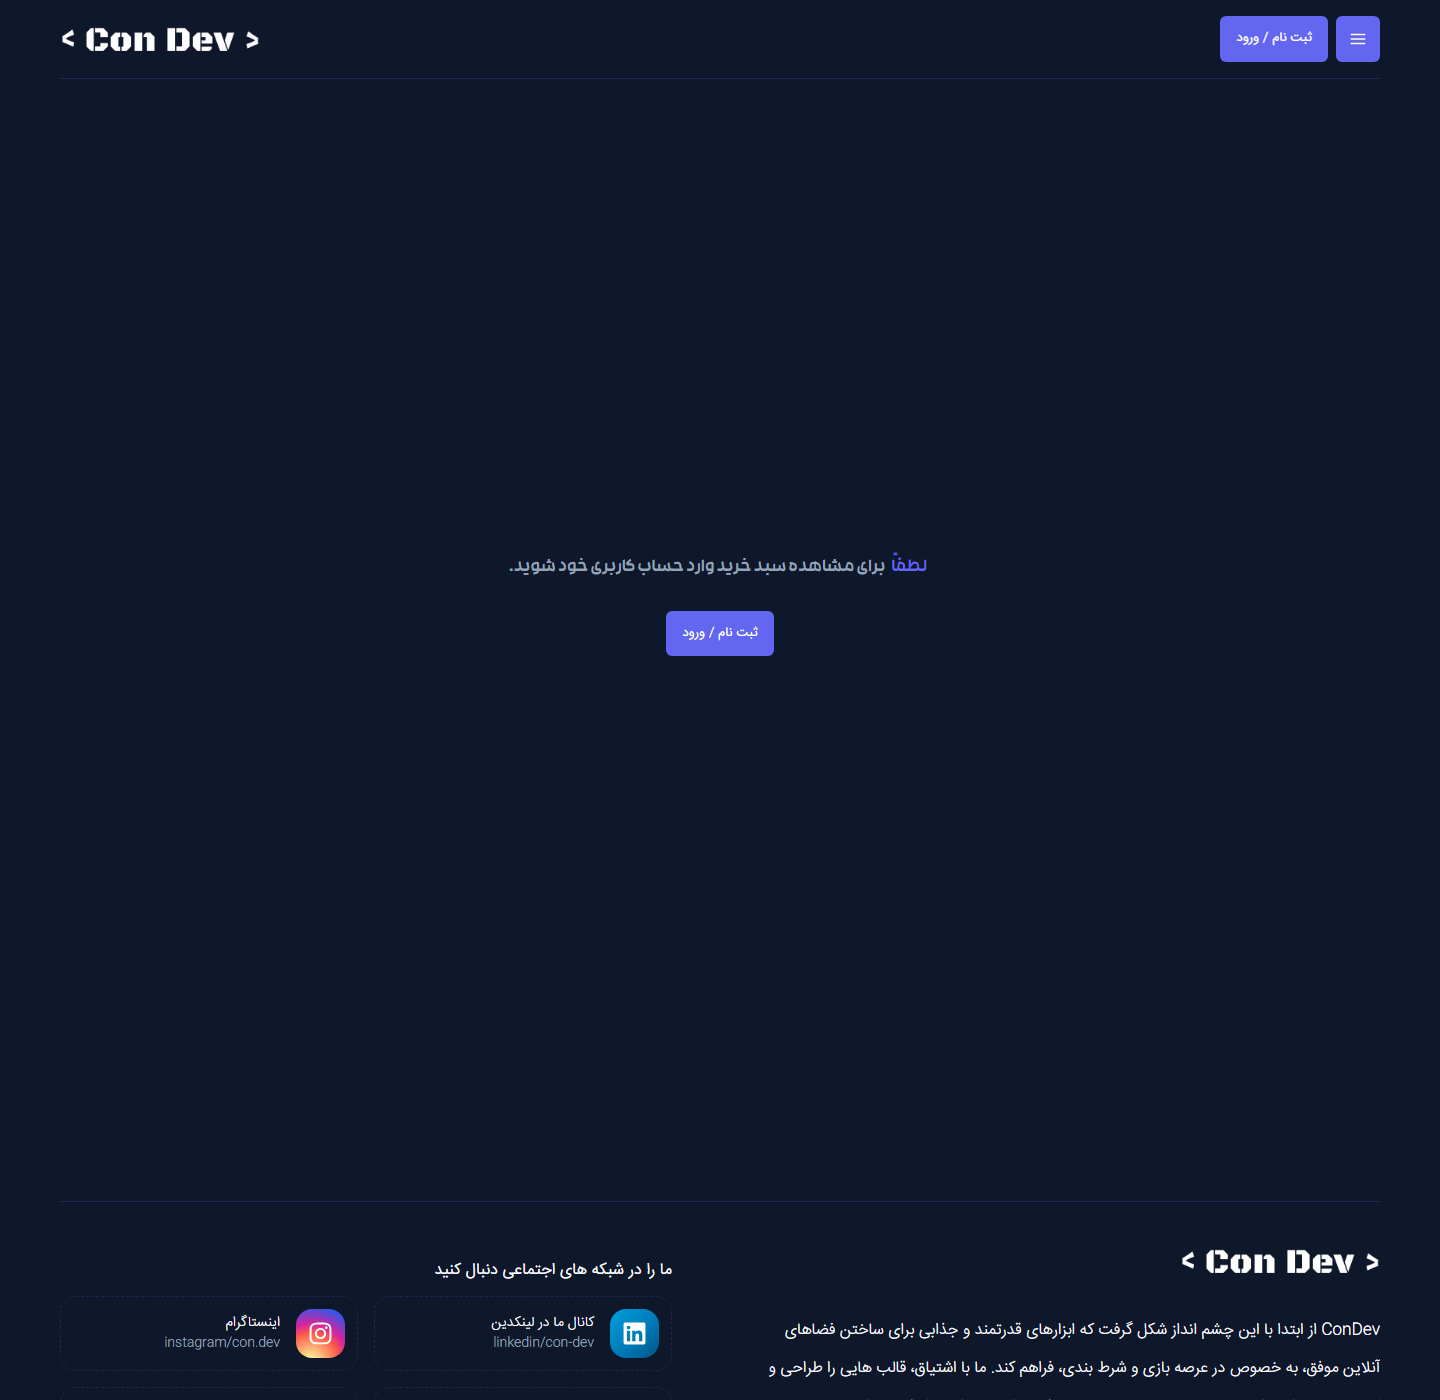
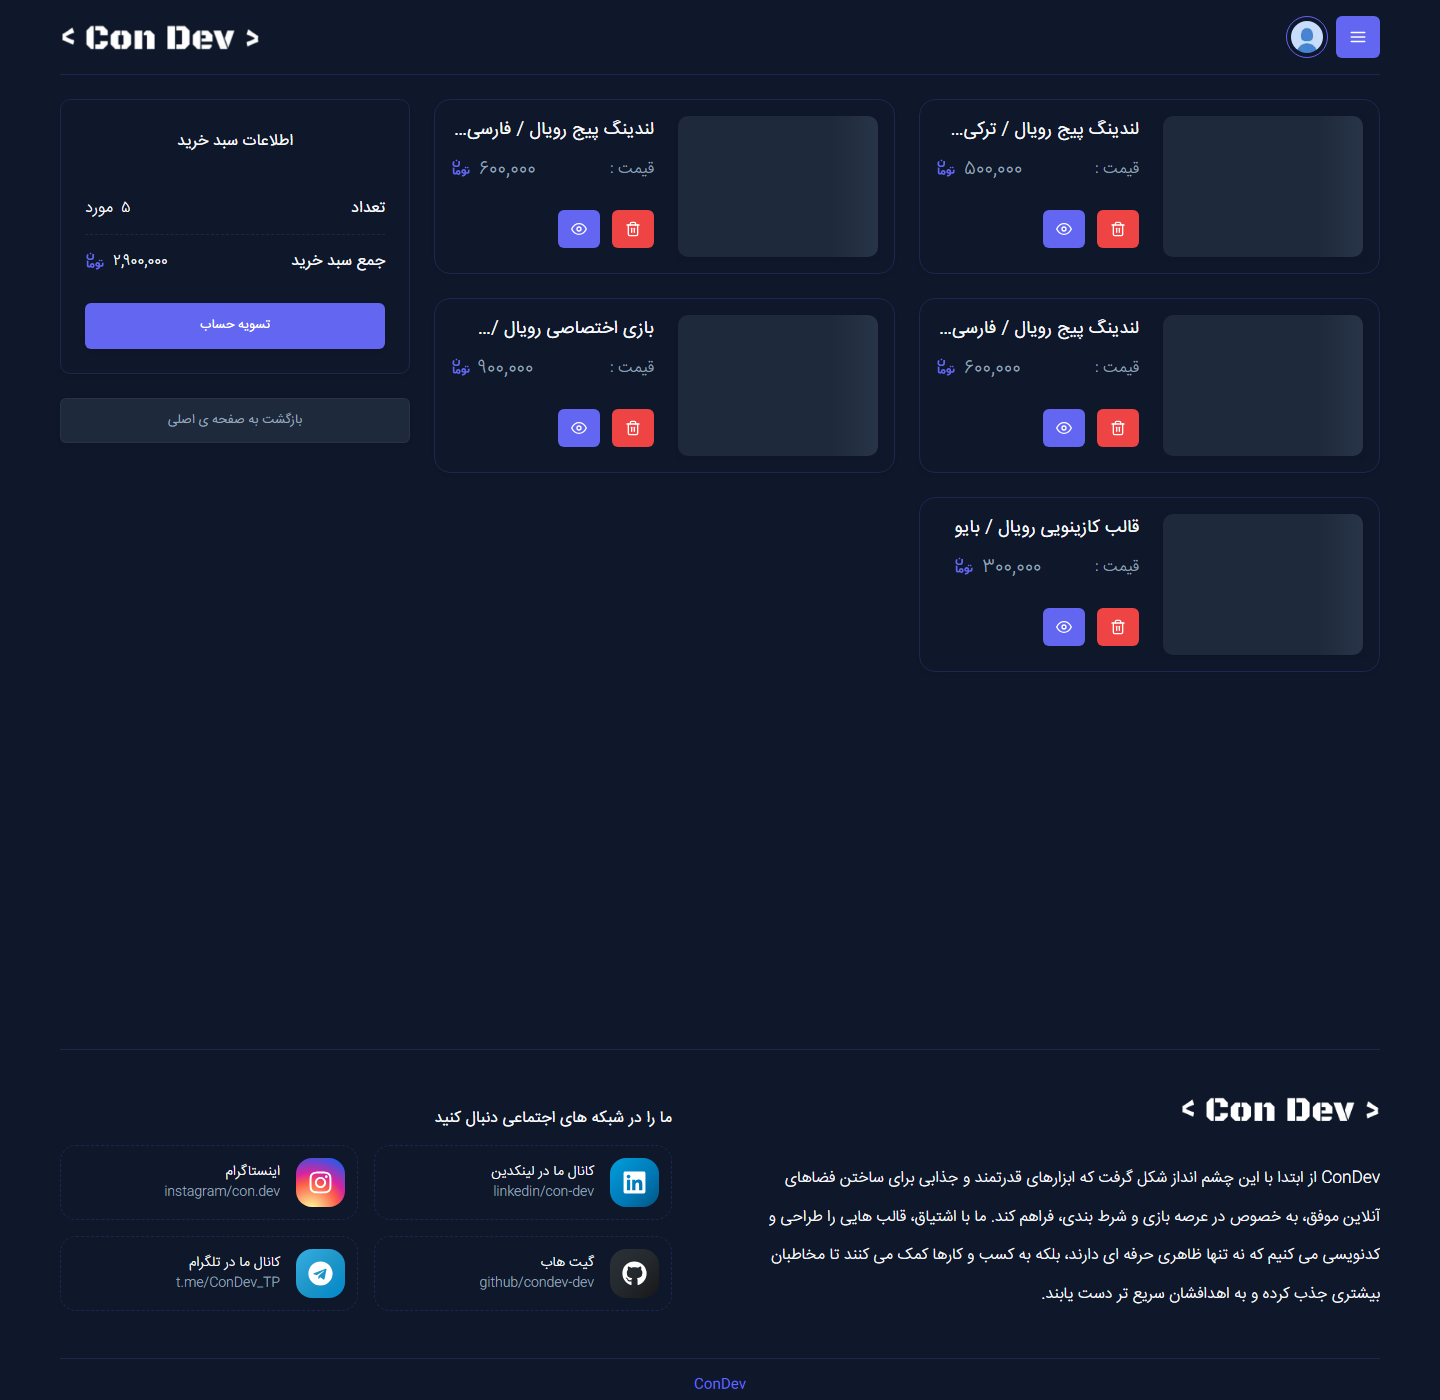
docs(readme): update preview with logged-in user profile, purchases and cart screenshots
Removed the categories overview shot as requested. Logged in with user credentials and captured real screenshots of the active Cart (with item), Purchases history and User Profile with details/settings.

diff --git a/README.md b/README.md
@@ -52,14 +52,6 @@ A visitor browses the catalogue, opens the live demo of any template, adds it to
 
 ---
 
-### 🗂 Categories
-
-*Four entry points: Persian landing, Turkish landing, bio and games.*
-
-![Categories](https://raw.githubusercontent.com/condev-dev/templates-store/main/public/img/readme/Categories-Demo.png)
-
----
-
 ### 🔖 Template List
 
 *Every template in a category with the live demo link on each card.*
@@ -78,7 +70,7 @@ A visitor browses the catalogue, opens the live demo of any template, adds it to
 
 ### 🛒 Cart
 
-*Cart items, the running total and the way to checkout.*
+*Cart items, running total and the checkout button.*
 
 ![Cart](https://raw.githubusercontent.com/condev-dev/templates-store/main/public/img/readme/Cart-Demo.png)
 
@@ -96,7 +88,7 @@ A visitor browses the catalogue, opens the live demo of any template, adds it to
 
 ### 📦 Purchases
 
-*Bought templates stay in the account, ready to download.*
+*Bought templates attached to the user account, ready to download.*
 
 ![Purchases](https://raw.githubusercontent.com/condev-dev/templates-store/main/public/img/readme/Purchases-Demo.png)
 
@@ -104,7 +96,7 @@ A visitor browses the catalogue, opens the live demo of any template, adds it to
 
 ### 👤 Profile
 
-*Personal details, password change, theme switcher and account deletion.*
+*Account details, password change, theme switcher and account deletion.*
 
 ![Profile](https://raw.githubusercontent.com/condev-dev/templates-store/main/public/img/readme/Profile-Demo.png)
 
